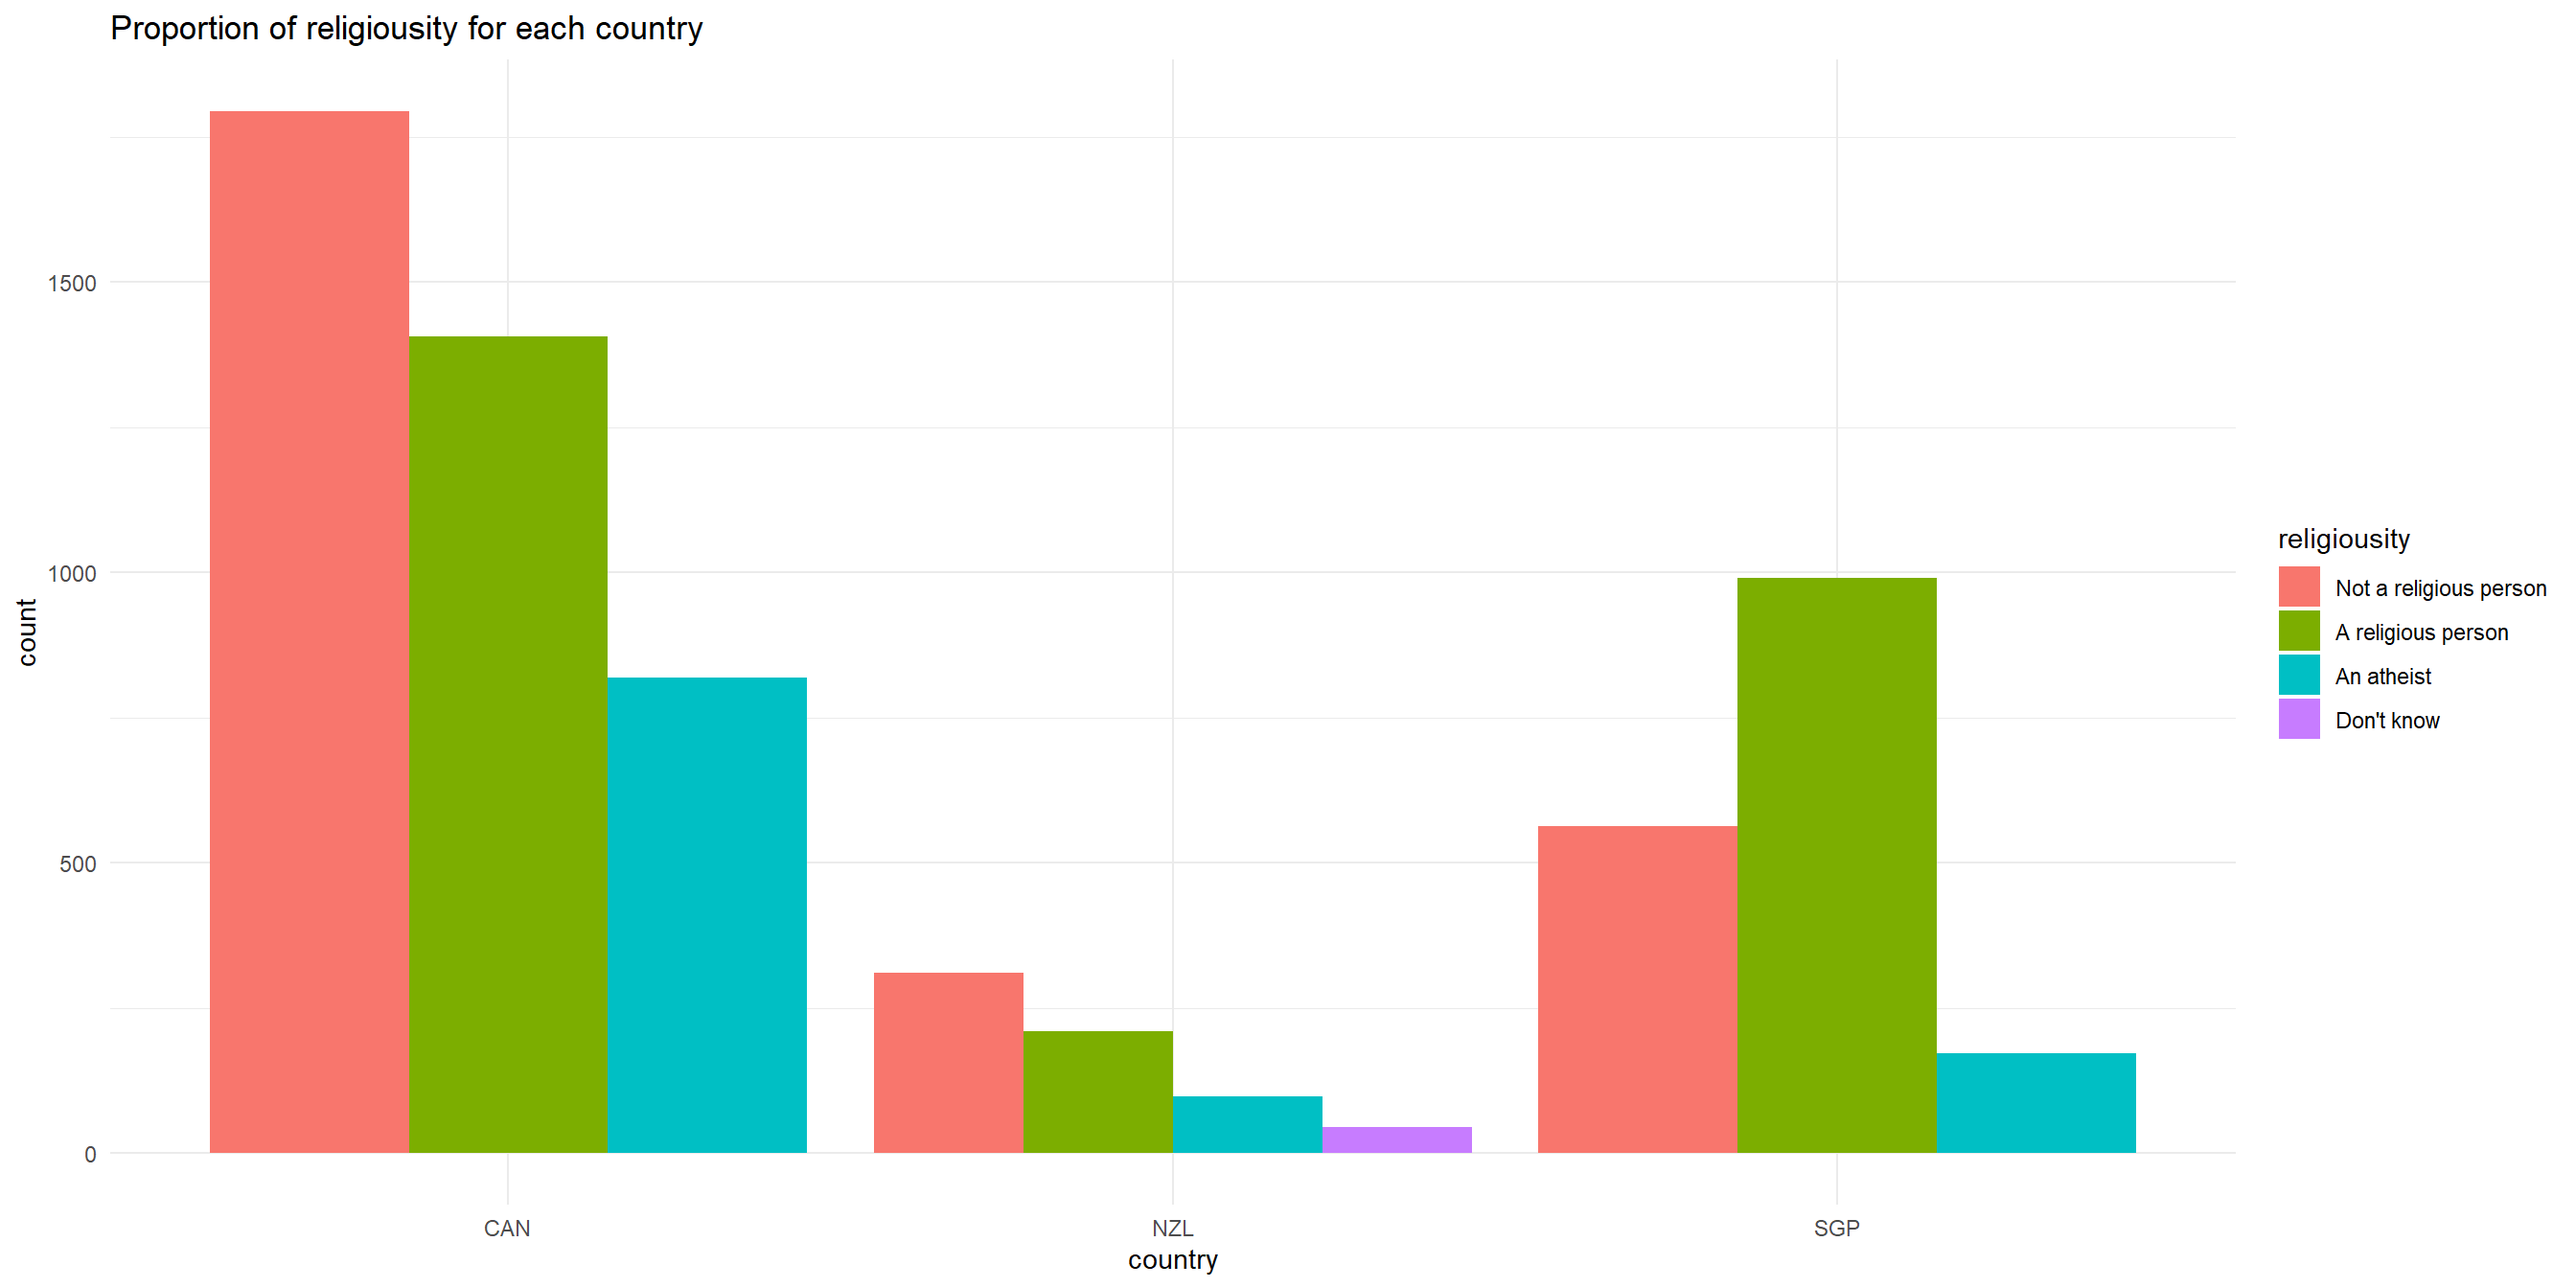
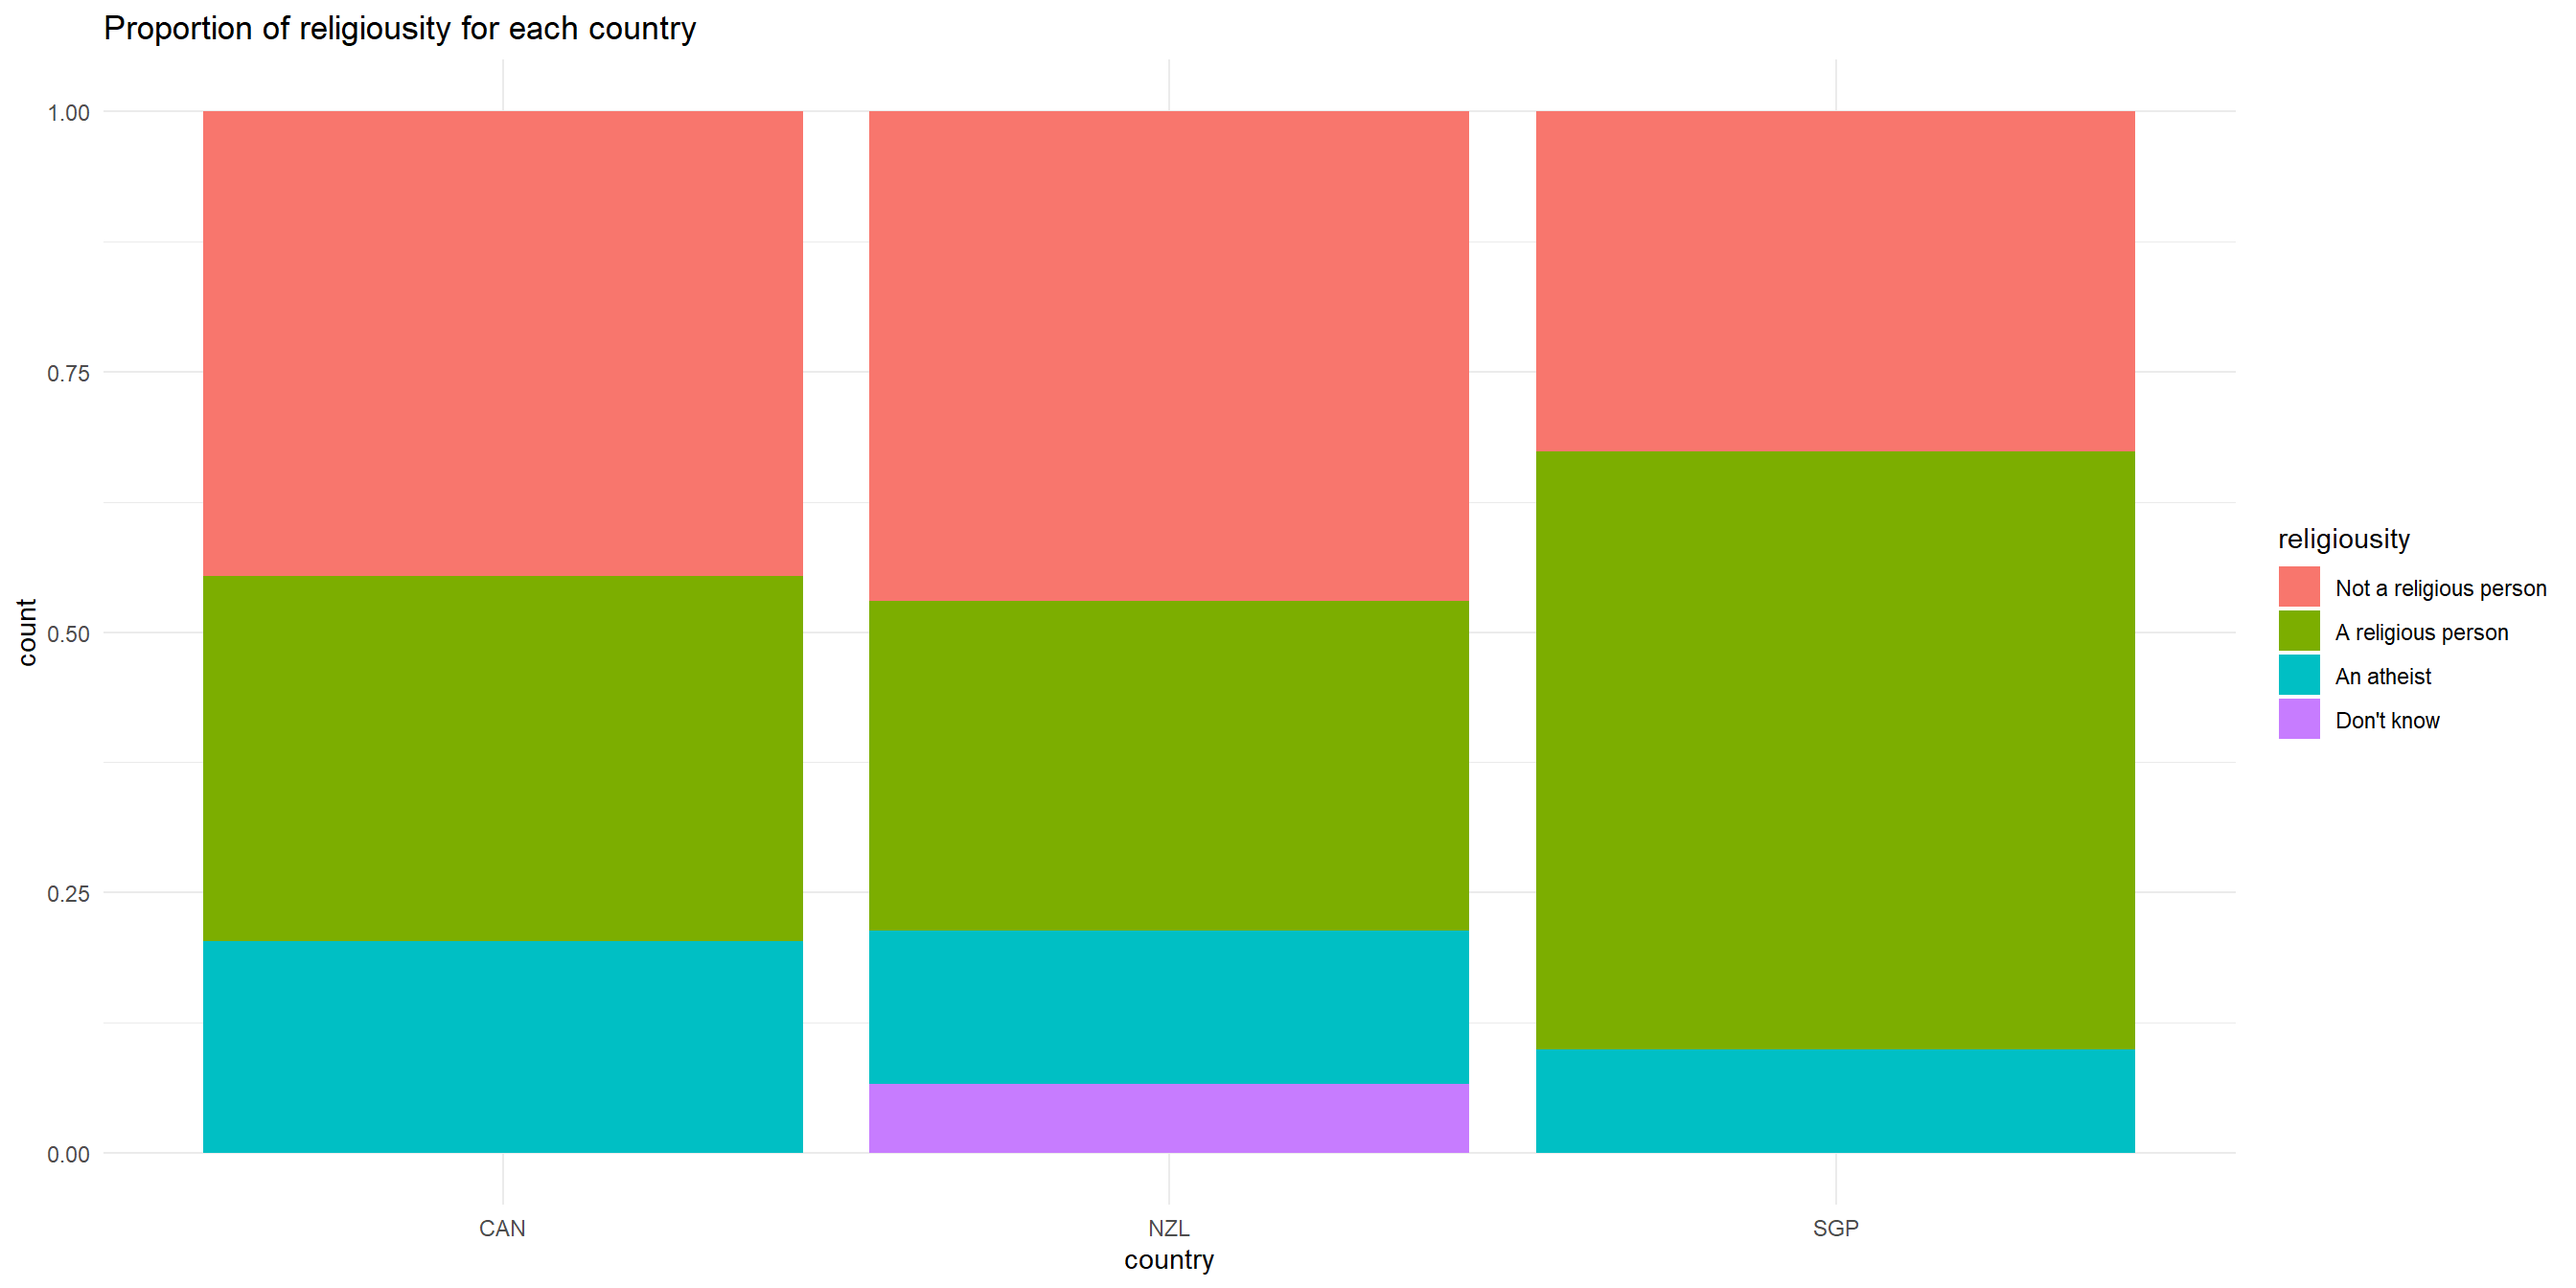
Built site for gh-pages

diff --git a/04-stats.html b/04-stats.html
@@ -309,7 +309,7 @@ Bella Ratmelia
 <div class="cell">
 <div class="sourceCode cell-code" id="cb4"><pre class="sourceCode numberSource r number-lines code-with-copy"><code class="sourceCode r"><span id="cb4-1"><a></a>wvs_cleaned <span class="sc">|&gt;</span> </span>
 <span id="cb4-2"><a></a>    <span class="fu">ggplot</span>(<span class="fu">aes</span>(<span class="at">x =</span> country, <span class="at">fill =</span> religiousity)) <span class="sc">+</span></span>
-<span id="cb4-3"><a></a>    <span class="fu">geom_bar</span>(<span class="at">position =</span> <span class="st">"dodge"</span>) <span class="sc">+</span></span>
+<span id="cb4-3"><a></a>    <span class="fu">geom_bar</span>(<span class="at">position =</span> <span class="st">"fill"</span>) <span class="sc">+</span></span>
 <span id="cb4-4"><a></a>    <span class="fu">labs</span>(<span class="at">title =</span> <span class="st">"Proportion of religiousity for each country"</span>) <span class="sc">+</span></span>
 <span id="cb4-5"><a></a>    <span class="fu">theme_minimal</span>()</span></code><button title="Copy to Clipboard" class="code-copy-button"><i class="bi"></i></button></pre></div>
 
